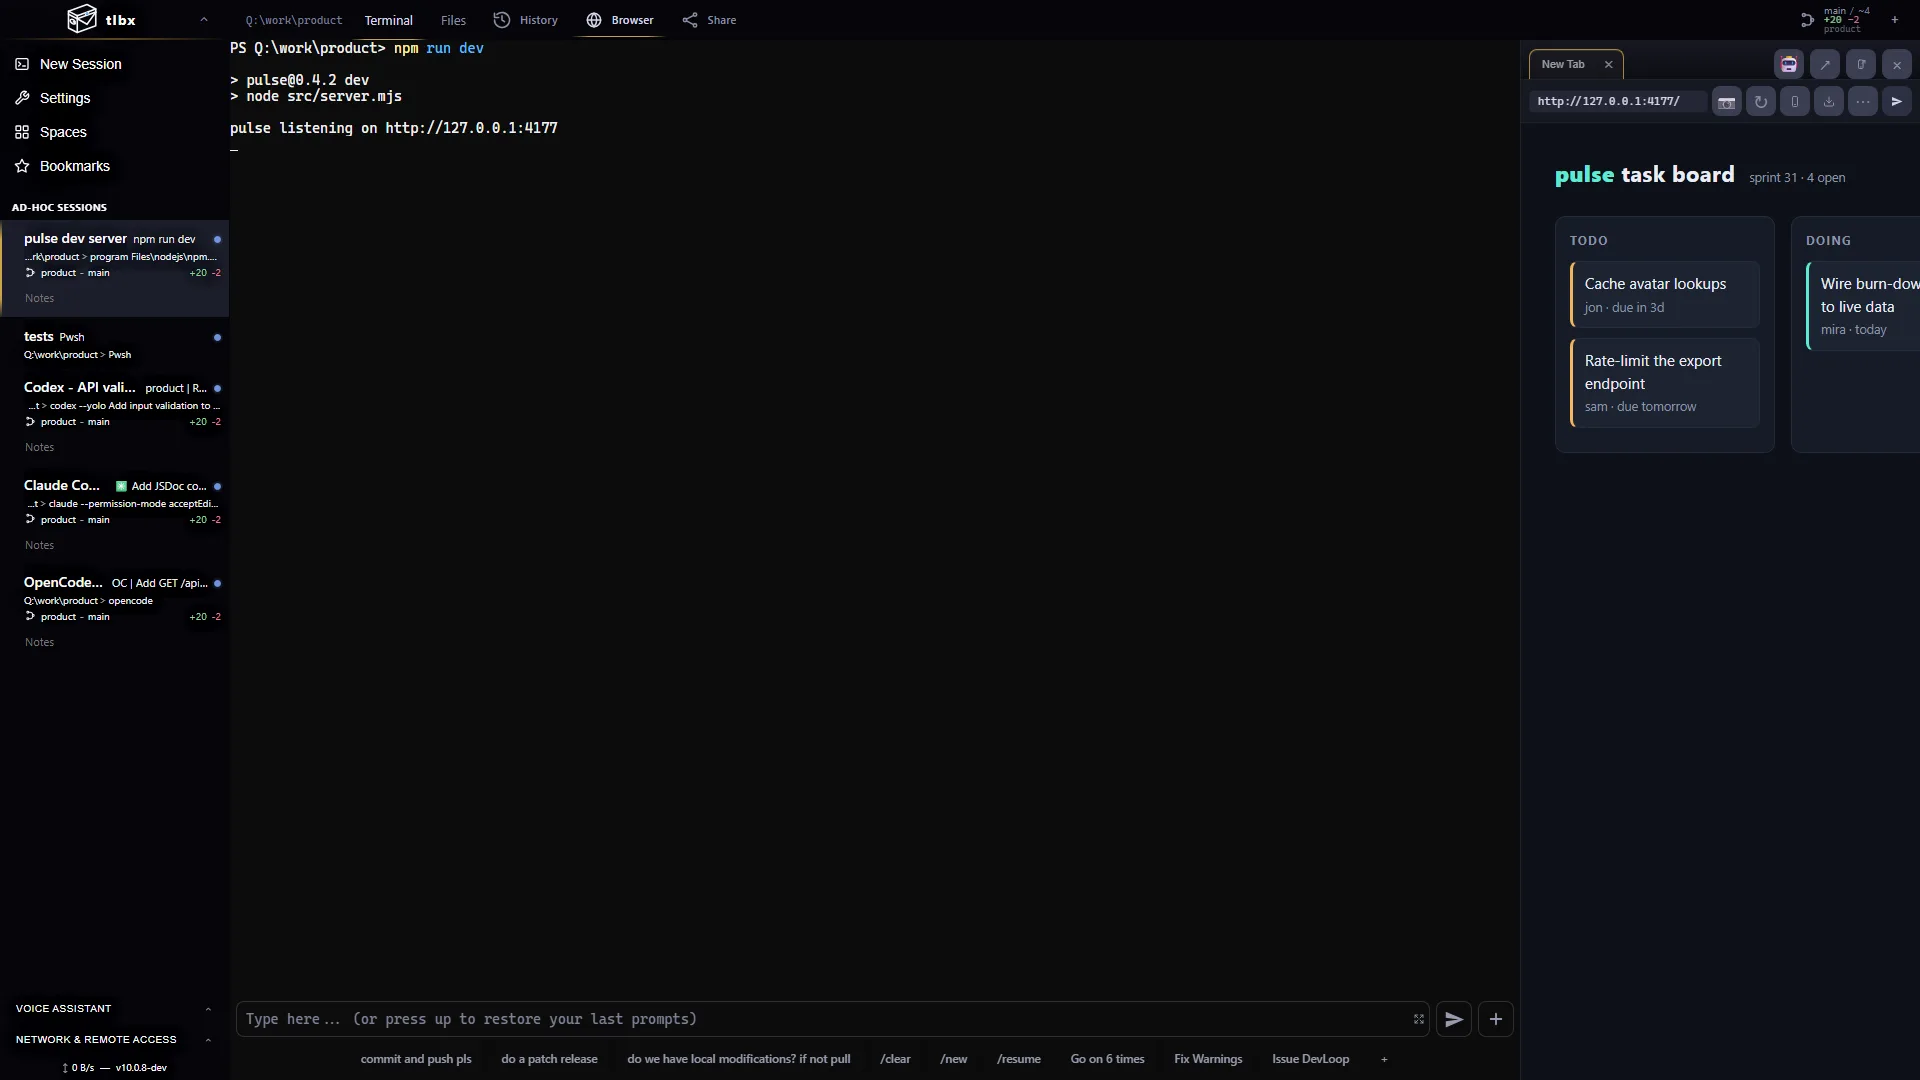
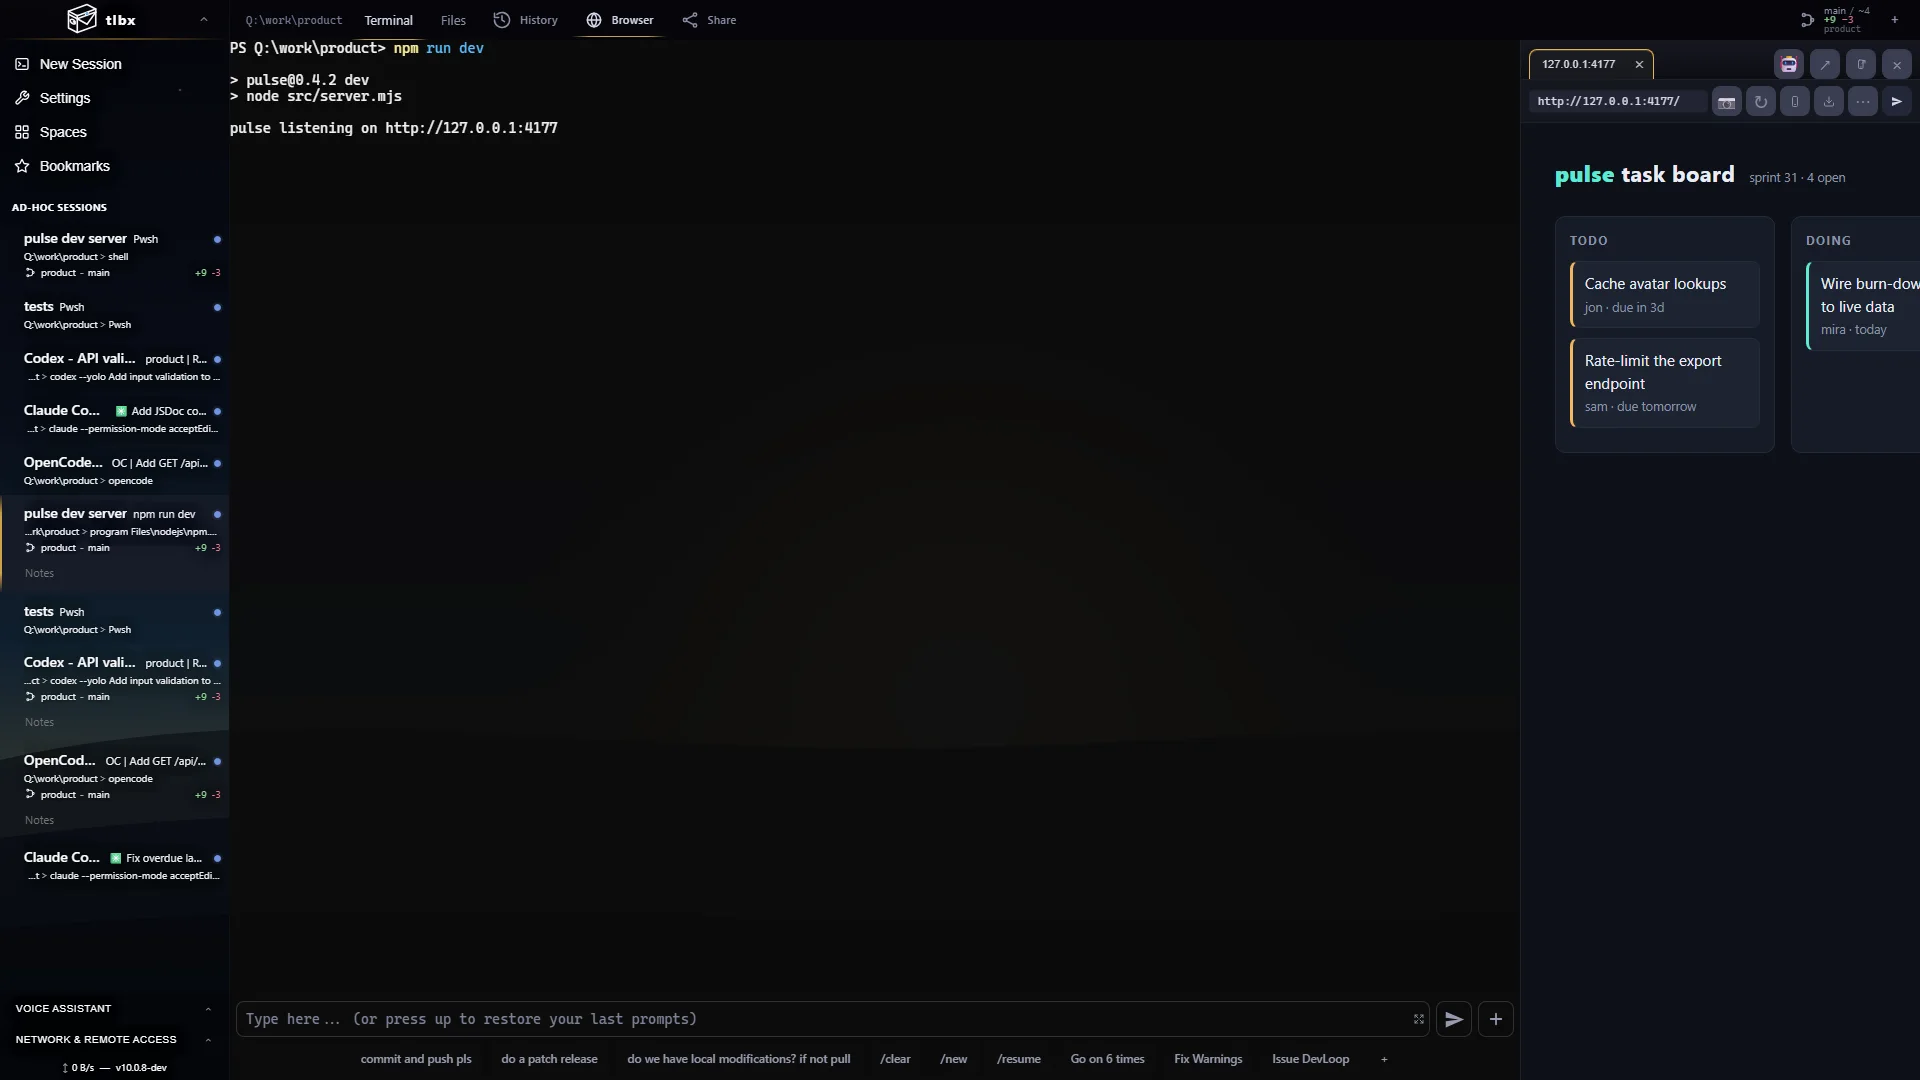
Refresh README screenshots with wallpaper theming and add general-terminal section

diff --git a/README.md b/README.md
@@ -28,7 +28,7 @@ tlbx is a self-hosted browser control station for remote AI coding agents. Run C
 
 > **tlbx is the new name of MidTerm.** Existing installs update in place. The `mt`, `mthost`, and `mtagenthost` executables, service identities, settings, session data, and release asset names remain compatible.
 
-The browser is the control surface, not the runtime: close it, change devices, or travel, and the agents, PTYs, tests, and servers keep running.
+The browser is the control surface, not the runtime: close it, change devices, or travel, and the agents, PTYs, tests, and servers keep running. It's a general terminal too—pwsh, bash, or zsh and any PTY app, not just agents.
 
 **Your machines are browser tabs. Your agents keep working when you leave.**
 
@@ -52,6 +52,14 @@ Codex, Claude Code, and OpenCode working the same project in adjacent tlbx sessi
 
 <p align="center">
   <img src="docs/marketing/readme/console-and-app.webp" alt="A tlbx dev server session beside the docked Dev Browser showing the live app it serves" width="100%">
+</p>
+
+## Any shell, any terminal app
+
+tlbx is a general terminal first. Run **pwsh, bash, or zsh** on Windows, macOS, and Linux hosts—and any program that speaks to a real PTY: `btop`, `vim`, `lazygit`, database shells, build watchers. Split sessions into tmux-style pane layouts and keep them all in one browser tab.
+
+<p align="center">
+  <img src="docs/marketing/readme/any-terminal.webp" alt="btop system monitor running full-screen in a tlbx terminal session, with CPU, memory, disk, network and process panels" width="100%">
 </p>
 
 ## Agent CLI ergonomics